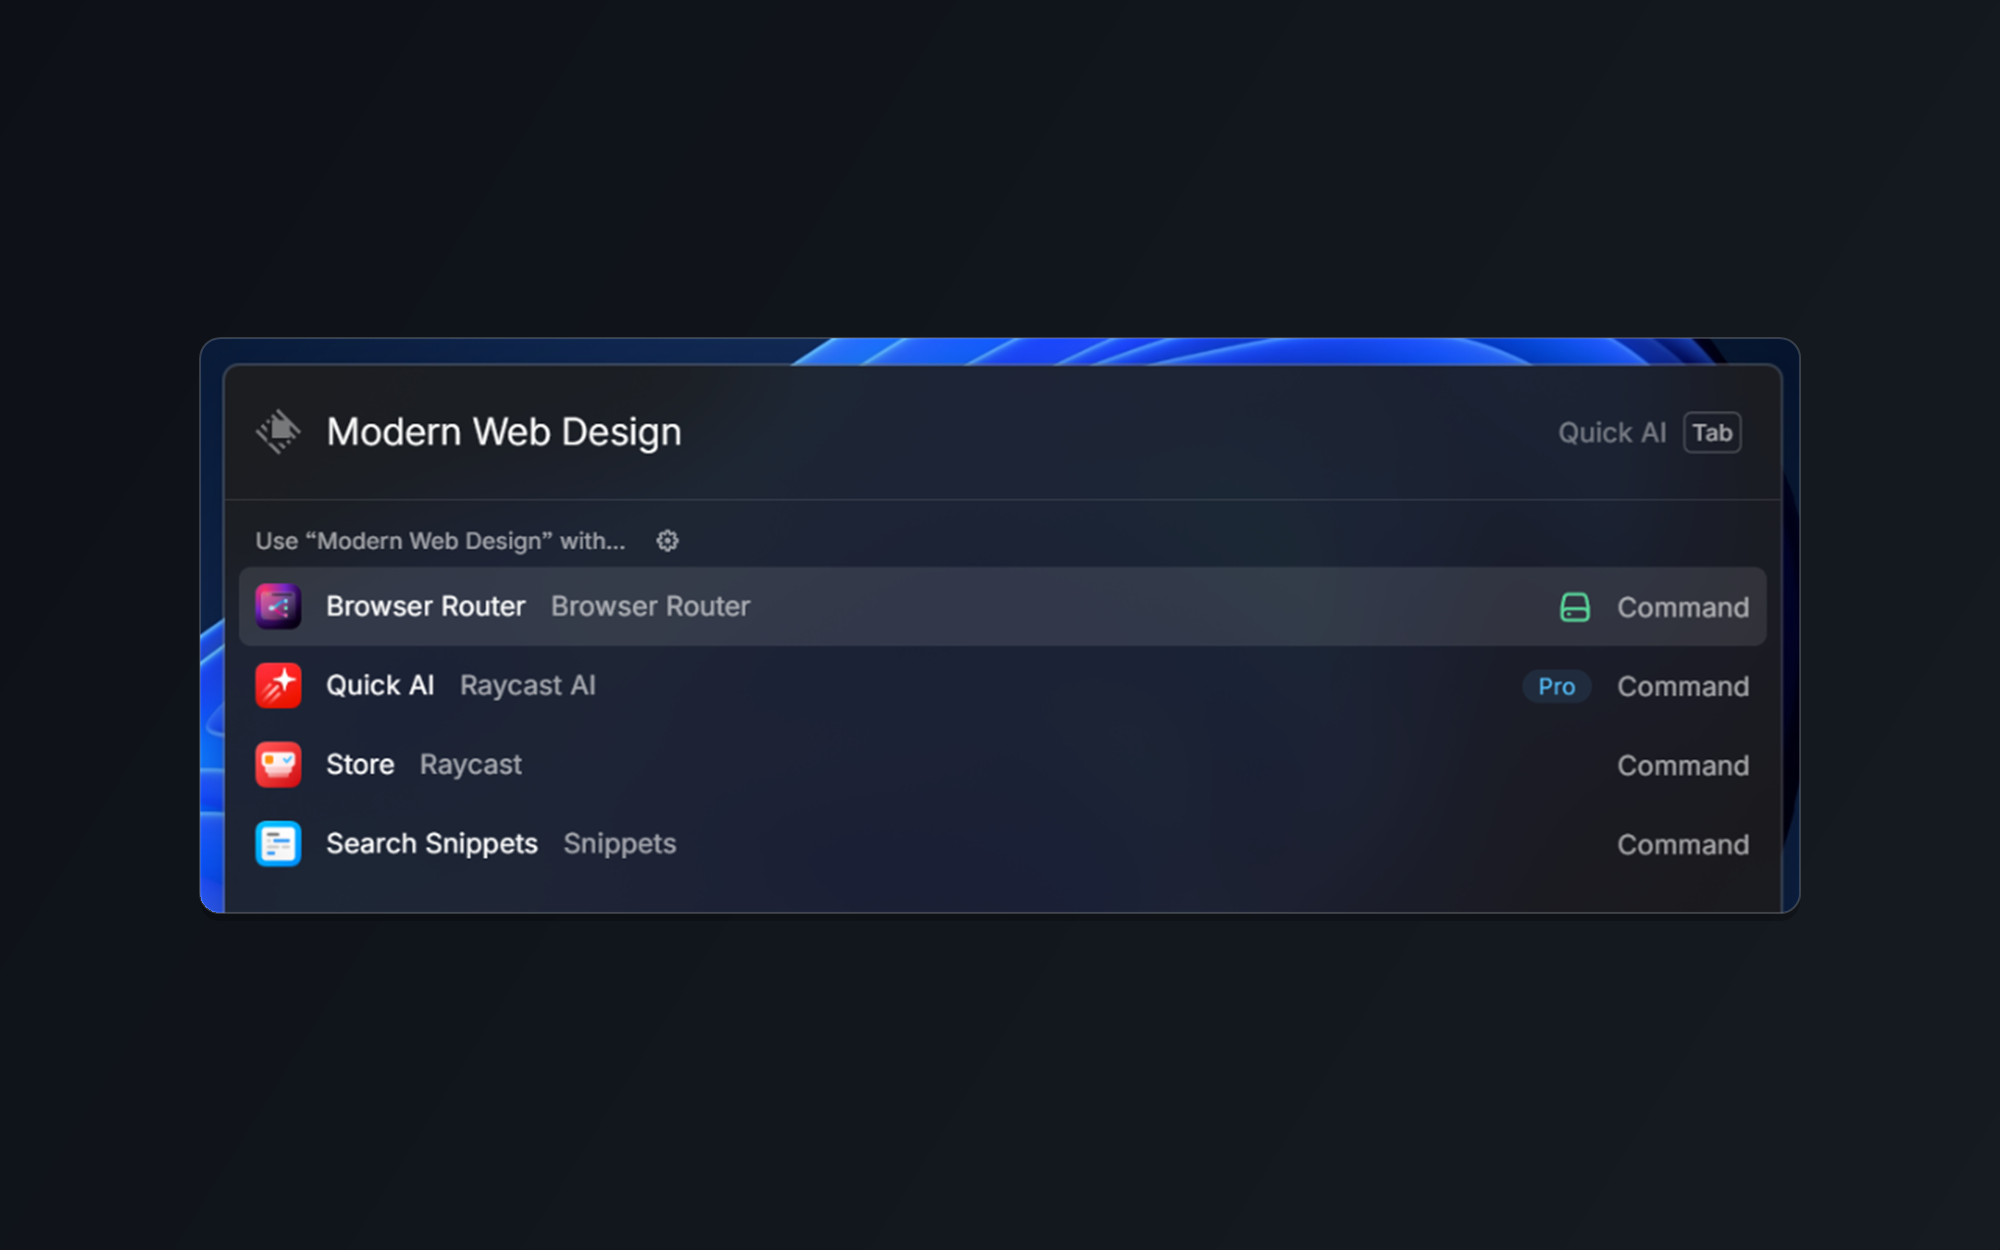
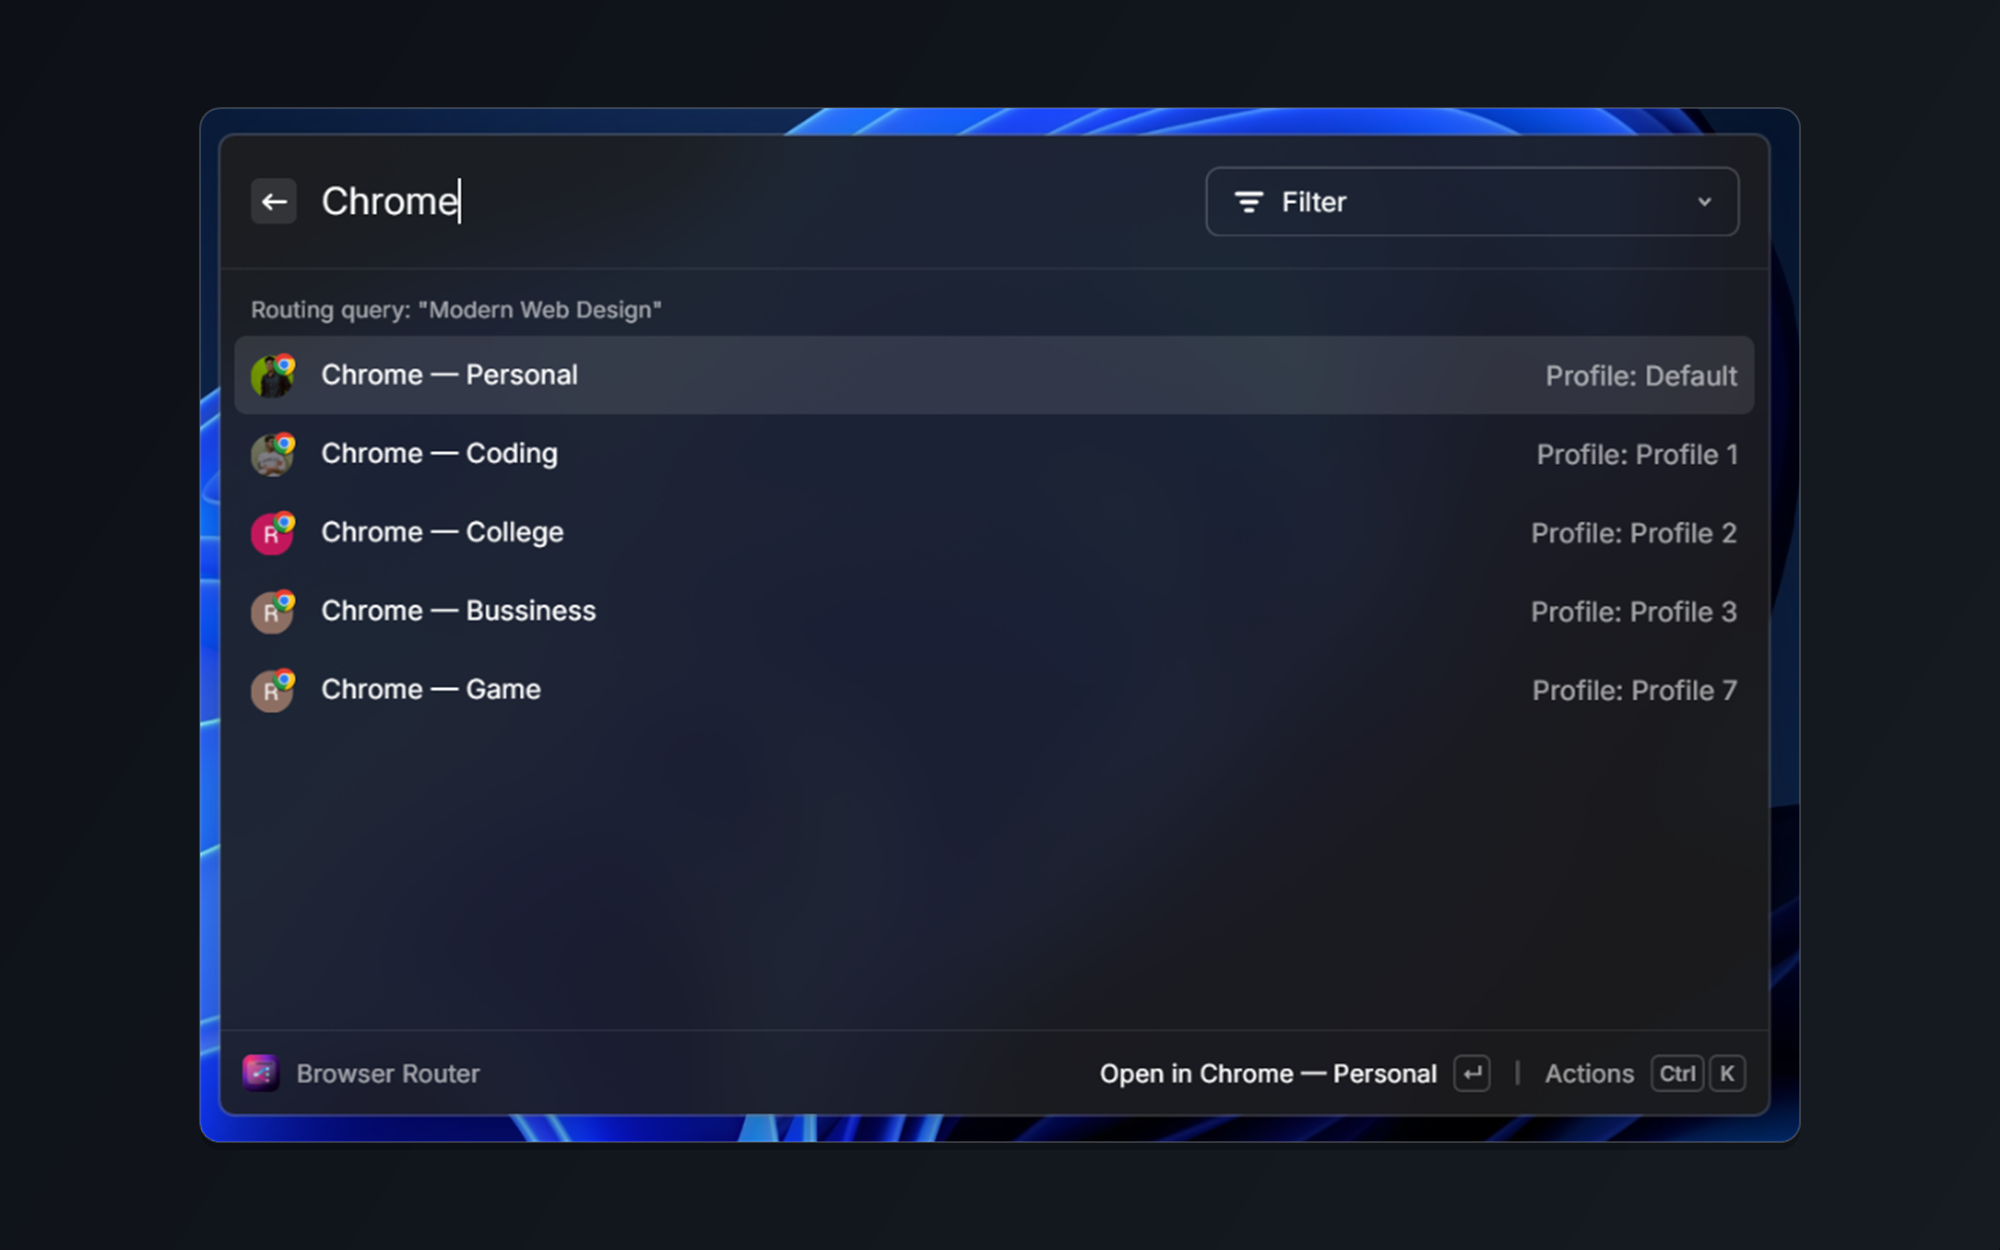
docs: add CHANGELOG.md and update metadata screenshots to pass store enforcer

Changed region(s): [[0.093, 0.0624, 0.899, 0.936]]

diff --git a/CHANGELOG.md b/CHANGELOG.md
@@ -1,0 +1,10 @@
+# Browser Router Changelog
+
+## [Initial Version] - {PR_MERGE_DATE}
+
+- Initial release of Browser Router for Windows.
+- Route search queries and URLs directly from Raycast to any installed browser and profile.
+- Deep profile persistence for Chrome, Microsoft Edge, Brave, Vivaldi, Arc, Opera, and Mozilla Firefox.
+- In-place friendly profile renaming and custom display names.
+- Custom and portable browser profile registration.
+- Privacy-first local architecture with built-in user guide and feedback support.
